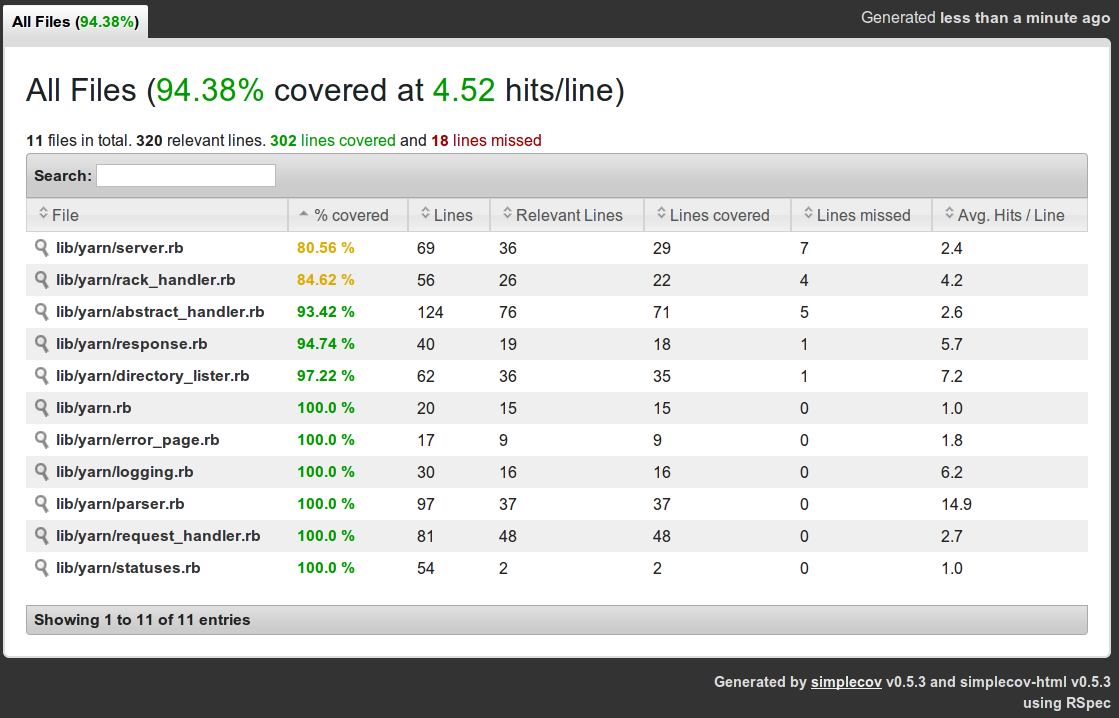
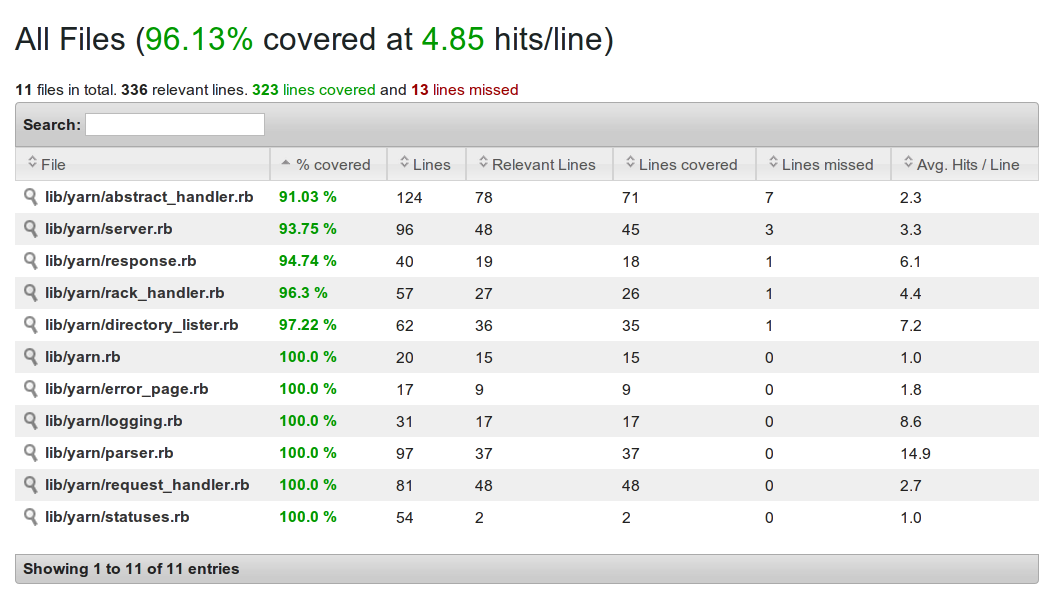
Spelling and removal of junk files

diff --git a/evaluation.tex b/evaluation.tex
@@ -12,16 +12,16 @@ It was not possible to fix this bug as no more time was left for
 development.
 
 The performance of Yarn is quite satisfying for CPU intensive applications,
-but for static content it performs subpar to other Ruby webservers.
+but for static content it performs sub par to other Ruby webservers.
 \fixme{blame parser?}
 
 \section{Process Reflection}
 Developing software tests first proved to be difficult at times when it was
 hard to figure out how a piece of code would even work. Having done mostly
-non-test-first development prior to this project, it required a continous
+non-test-first development prior to this project, it required a continuous
 concious effort to stick to writing tests before implementing features. Late
 in the development phase, it became a more natural effort to drive the
-implementation thorugh testing, and the advantages of the workflow were proved
+implementation through testing, and the advantages of the work-flow were proved
 a great asset. Having the tests provided the courage which was sometimes
 needed prior to a large rewrite of refactoring of a feature, as it was always
 easy to see whether the changes had broken the system. Furthermore, by writing
@@ -29,8 +29,8 @@ the tests first, it was always clear what the next step was as running the
 test would reveal exactly what was missing in the implementation.
 
 Given there was no design phase prior to starting the development, the design
-desicions were made continously throughout the development. This resulted in
-some desicions made early on which later proved to be less fortunate. But due
+decisions were made continuously throughout the development. This resulted in
+some decisions made early on which later proved to be less fortunate. But due
 to the agile nature of BDD, and the confidence achieved by having a big test
 suite, drastic design changes late in the process were possible. Had the
 system been thoroughly designed upfront, such drastic changes might have been

diff --git a/implementation/requests.tex b/implementation/requests.tex
@@ -1,11 +1,11 @@
 \section{Static and Dynamic Requests}
 % \meta{Describe how static and dynamic files are served}
-Serving static and dynamic content was developed as two seperate features and
+Serving static and dynamic content was developed as two separate features and
 handler classes \texttt{StaticHandler} and \texttt{DynamicHandler}, but
 later merged into what is now the \texttt{RequestHandler} class. From the
 beginning it was clear that the handler classes would have much functionality
 such as reading the request, invoking the parser and returning the response in
-common, but also some distinct functionality. A good way to vary an algorithm
+common, but also some distinct functionality. A way to vary an algorithm
 whilst keeping much of the functionality the same is to use the Template
 Method design pattern. The process of handling requests can be split up into
 the following steps:
@@ -13,15 +13,15 @@ the following steps:
 \begin{enumerate}
   \item Parse the request
   \item Prepare the response
-  \item Return the reponse to the client
+  \item Return the response to the client
   \item Close the connection
 \end{enumerate}
 
 Given this process, the part that differs between handling static and dynamic
 files is preparing the response. The Template Method makes provides a
 convenient way to vary the implementation of how the response is prepared
-\cite{design_patterns}.
-Figure~\ref{template} shows how the relationship between the handler classes.
+\cite{design_patterns}.  Figure~\ref{template} shows how the relationship
+between the handler classes.
 
 \begin{figure}[htb]
   \centering

diff --git a/benchmark.tex b/benchmark.tex
@@ -58,8 +58,8 @@ Furthermore, the impact of Thin's and Unicorn's fast C HTTP parser has a
 higher impact when the time spent parsing the request relatively high compared
 to the amount of time spent creating the response.
 
-% next bm
-The results were quite different when a CPU intensive Rack application was
+% next BM
+The results were quite various when a CPU intensive Rack application was
 used. Listing~\ref{cpubench} shows the results of benchmarking with a Rack
 application that calculates the Fibonacci series up to 10000.
 
@@ -73,6 +73,6 @@ application that calculates the Fibonacci series up to 10000.
 With each request now having to run a CPU intensive computation, Unicorn came in
 first with 240 req/sec, Yarn second with 218 req/sec, then Thin with 90
 req/sec and lastly WEBrick with 50 req/sec. With a CPU intensive application,
-the benefits of parallel processing is clearly noticed, as is the case with
+the benefits of parallel processing is apparent, as is the case with
 Unicorn and Yarn. Thin and WEBrick would probably perform similarly if
 multiple instances and a load balancer was used.

diff --git a/testing/testing.tex b/testing/testing.tex
@@ -2,13 +2,13 @@ Throughout the development of Yarn, acceptance tests and specifications were
 written prior to developing a feature. This provided a solid test coverage
 which in turn allowed for some radical refactorings to improve the quality,
 readability and performance of the system. By the end of development,
-all 13 acceptance tests (Cucumber features) and 77 specifications (RSpec
-specs) passed.  The final test coverage was 94.38\%, as depicted on
+all 13 acceptance tests (Cucumber features) and 82 specifications (RSpec
+specs) passed.  The final test coverage was 96.13\%, as depicted on
 Figure~\ref{coverage}. 
 
 \begin{figure}[htb]
   \centering
-  \includegraphics[width=1.0\textwidth]{img/coverage.png}
+  \includegraphics[width=0.9\textwidth]{img/coverage.png}
   \caption{Yarn test coverage screenshot.}
   \label{coverage}
 \end{figure}

diff --git a/bg/ruby.tex b/bg/ruby.tex
@@ -87,10 +87,10 @@ YARV is the one driving the Ruby language implementation, it always has the
 latest languages features and updates, whereas other Ruby implementations tend
 to be a bit behind. The latests stable version of YARV is 1.9.2, with 1.9.3
 being just around the corner. YARV supports threads, fibers and processes, but
-includes a Global Interpreter Lock (GIL) which limits the Vm to only running
+includes a Global Interpreter Lock (GIL) which limits the VM to only running
 one thread at a time. The GIL is included to ensure non-threadsafe
 C-extensions does not cause problems, and effectively bars YARV from
-untilizing true parallism from fibers and threads \cite{ruby19}.
+utilizing true parallelism from fibers and threads \cite{ruby19}.
 
 \subsubsection{JRuby}
 JRuby is a Ruby implementation that runs on any Java Virtual Machine (JVM)

diff --git a/abstract.tex b/abstract.tex
@@ -1,7 +1,6 @@
 % \meta{A small summary of the whole project from start to finish.} 1/2 - 3/4
 % page.
 \begin{abstract}
-\addcontentsline{toc}{chapter}{Abstract}
 In this project, a concurrent webserver is implemented in Ruby using the
 Behaviour-Driven Development (BDD) method. 
 
@@ -12,7 +11,7 @@ solutions.
 
 Yarn, the name of the produced webserver, is benchmarked to other Ruby
 webservers and the results revealed that for static requests it performed
-subpar other webservers, but for CPU intensive applications it performed quite
+sub par other webservers, but for CPU intensive applications it performed quite
 well.
 
 Using BDD enabled getting started on the implementation right away, without

diff --git a/implementation/parser.tex b/implementation/parser.tex
@@ -90,6 +90,6 @@ Listing~\ref{Request-Line} will produce the following \texttt{Hash}:
   :body=>"field=value&show=true"@105 }
 \end{lstlisting}
 
-With the request nicely formatted in a \texttt{Hash} it becomes very easy to
+With the request formatted in a \texttt{Hash} it becomes very easy to
 query information about it. The numbers in Listing~\ref{parser_out} preluded
 by a \@ denote the elements start position in the request.

diff --git a/introduction.tex b/introduction.tex
@@ -28,5 +28,5 @@ available at \url{https://github.com/thejspr/yarn}.
 
 
 \section{Acknowledgements}
-I would like to thank Kai Xu for invaluable suporvision and feedback
+I would like to thank Kai Xu for invaluable supervision and feedback
 throughout this project.
